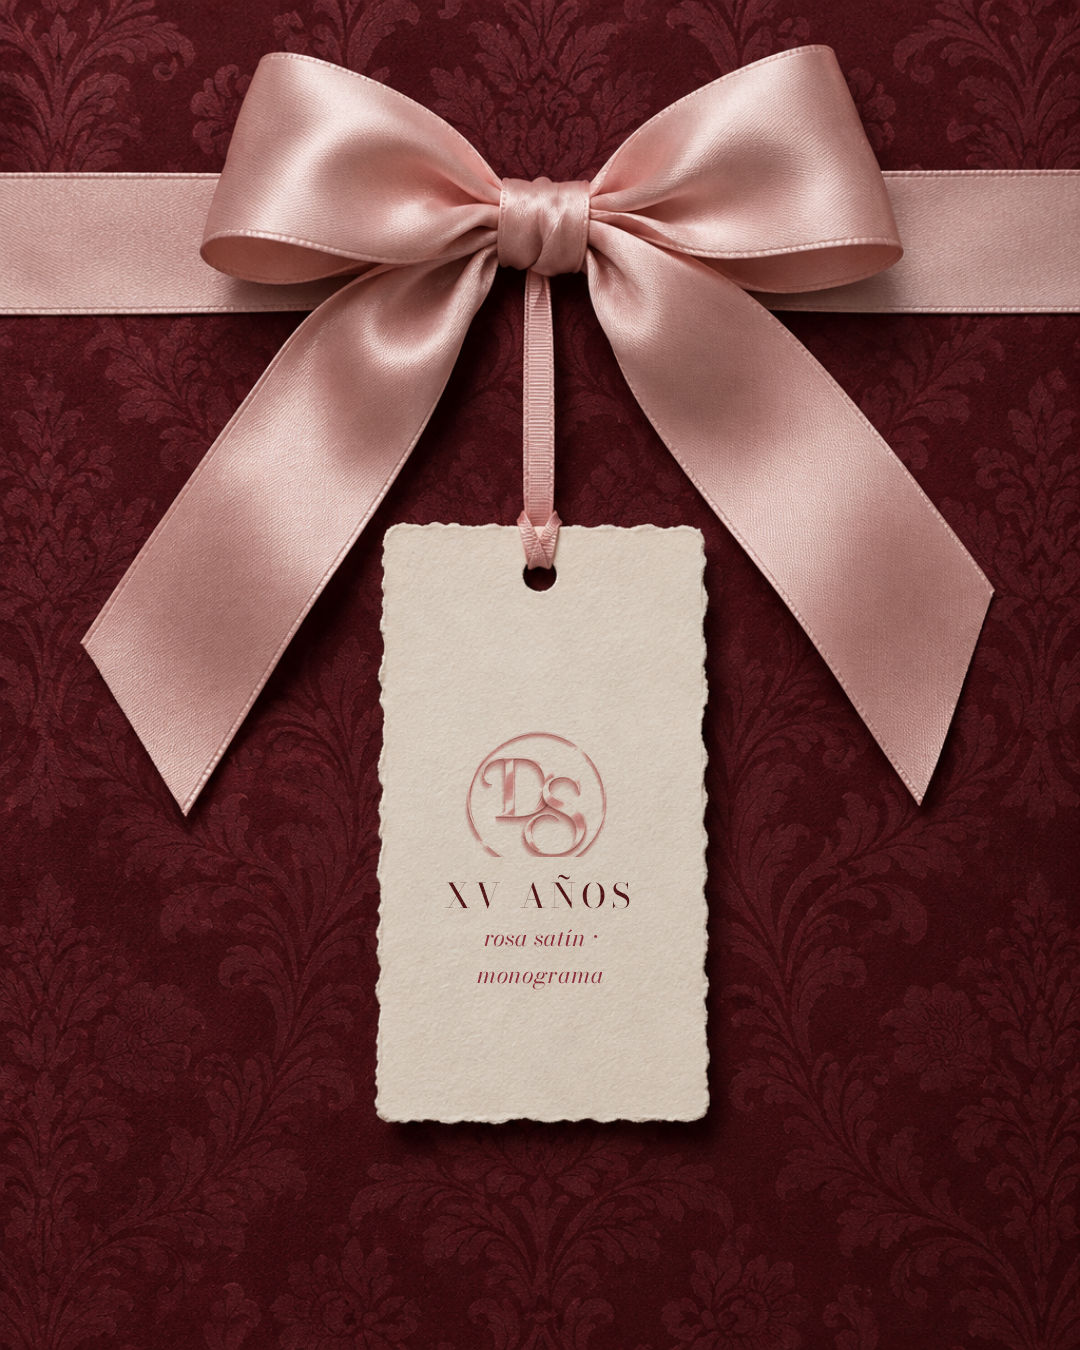
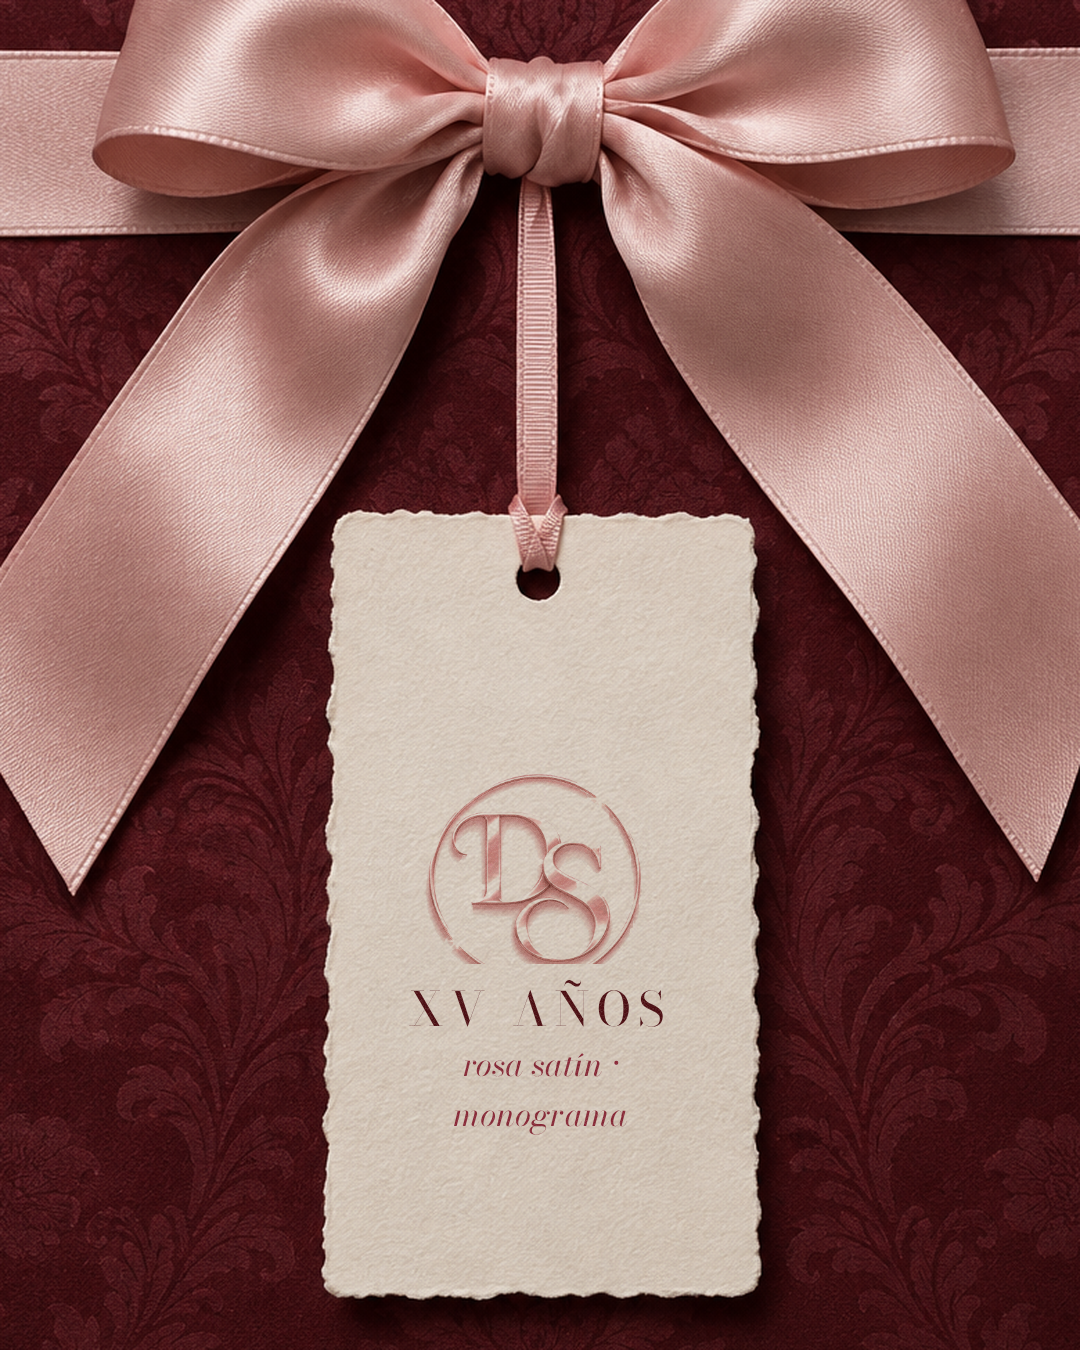
Enlarge tags by zooming photo backgrounds
Claude-Session: https://claude.ai/code/session_01EgrmTqtpGfwNVupVBLTceP

diff --git a/disenos/etiquetas/etiquetas-foto.html b/disenos/etiquetas/etiquetas-foto.html
@@ -5,13 +5,13 @@
 .c{position:absolute;display:flex;flex-direction:column;align-items:center;justify-content:center;text-align:center;color:#6a1220;mix-blend-mode:multiply}
 .c.light{mix-blend-mode:normal}
 .tt{font-family:'Bodoni Moda';letter-spacing:.16em;line-height:1}
-.ts{font-family:'Bodoni Moda';font-style:italic;font-size:24px;margin-top:6px}
+.ts{font-family:'Bodoni Moda';font-style:italic;font-size:33px;margin-top:6px}
 .scr{font-family:'Pinyon Script';line-height:1}
 .ink{position:absolute;inset:0;pointer-events:none;mix-blend-mode:screen;opacity:.22}
 </style></head><body><svg width="0" height="0" style="position:absolute"><filter id="wear"><feTurbulence type="fractalNoise" baseFrequency="1.3" numOctaves="2" seed="4"/><feColorMatrix values="0 0 0 0 1 0 0 0 0 1 0 0 0 0 1 0 0 0 -2.2 1.3"/></filter></svg>
-<div class="s" id="t1" style="background-image:url(fotos/bg1.png)"><div class="c" style="left:392px;top:583px;width:290px;height:544px;padding:0 6%"><img src="../portafolio/el/mono-g.png" style="width:86%"><div class="tt" style="font-size:23px;letter-spacing:.12em;margin-top:26px">INVITACIONES</div><div class="ts">digitales</div><div class="scr" style="font-size:46px;margin-top:14px">Invitto</div><svg class="ink" width="100%" height="100%"><rect width="100%" height="100%" filter="url(#wear)"/></svg></div></div>
-<div class="s" id="t2" style="background-image:url(fotos/bg2.png)"><div class="c" style="left:298px;top:729px;width:500px;height:251px;padding:0 6%"><img src="../portafolio/el/mono-le.png" style="width:40%;filter:contrast(1.1)"><div class="scr" style="color:#d4137a;font-size:56px;margin-top:2px">Mis XV años</div><div class="tt" style="font-size:16px;letter-spacing:.34em;color:#6b3fa0;margin-top:6px">TU NOMBRE AQUÍ</div><svg class="ink" width="100%" height="100%"><rect width="100%" height="100%" filter="url(#wear)"/></svg></div></div>
-<div class="s" id="t3" style="background-image:url(fotos/bg3.png)"><div class="c" style="left:375px;top:642px;width:331px;height:436px;padding:0 6%"><img src="fotos/mono-ds-solo.png" style="width:88%"><div class="tt" style="font-size:34px;margin-top:22px;color:#5a1018">XV AÑOS</div><div class="ts" style="color:#a3314a">rosa satín · monograma</div><svg class="ink" width="100%" height="100%"><rect width="100%" height="100%" filter="url(#wear)"/></svg></div></div>
-<div class="s" id="t4" style="background-image:url(fotos/bg4.png)"><div class="c light" style="left:371px;top:626px;width:351px;height:500px;padding:0 6%"><img src="../portafolio/el/sello-colibri.png" style="width:56%;mix-blend-mode:normal;filter:drop-shadow(0 8px 10px rgba(0,0,0,.45))"><div class="tt" style="font-size:38px;margin-top:26px;color:#f6e9dc">POSADA</div><div class="scr" style="font-size:54px;color:#f3c8c8">Navideña</div><div class="tt" style="font-size:15px;letter-spacing:.32em;color:#f6e9dc;margin-top:8px">PARA TU EMPRESA</div><svg class="ink" width="100%" height="100%"><rect width="100%" height="100%" filter="url(#wear)"/></svg></div></div>
-<div class="s" id="t5" style="background-image:url(fotos/bg5.png)"><div class="c" style="left:389px;top:661px;width:303px;height:367px;padding:0 6%"><div class="scr" style="font-size:72px;color:#7a1424">Invitto</div><div class="tt" style="font-size:34px;line-height:1.15;margin-top:20px">¿HACEMOS<br>LA TUYA?</div><div class="ts" style="font-size:20px;margin-top:12px">XV · bodas<br>cumples · empresas</div><div class="tt" style="font-size:13px;letter-spacing:.2em;white-space:nowrap;margin-top:22px;border-top:1px solid #7a1424;border-bottom:1px solid #7a1424;padding:10px 6px">MÁNDANOS DM →</div><svg class="ink" width="100%" height="100%"><rect width="100%" height="100%" filter="url(#wear)"/></svg></div></div>
+<div class="s" id="t1" style="background-image:url(fotos/zoom1.png)"><div class="c" style="left:350px;top:525px;width:381px;height:714px;padding:0 6%"><img src="../portafolio/el/mono-g.png" style="width:86%"><div class="tt" style="font-size:32px;letter-spacing:.12em;margin-top:26px">INVITACIONES</div><div class="ts">digitales</div><div class="scr" style="font-size:64px;margin-top:14px">Invitto</div><svg class="ink" width="100%" height="100%"><rect width="100%" height="100%" filter="url(#wear)"/></svg></div></div>
+<div class="s" id="t2" style="background-image:url(fotos/zoom2.png)"><div class="c" style="left:212px;top:924px;width:656px;height:330px;padding:0 6%"><img src="../portafolio/el/mono-le.png" style="width:40%;filter:contrast(1.1)"><div class="scr" style="color:#d4137a;font-size:78px;margin-top:2px">Mis XV años</div><div class="tt" style="font-size:22px;letter-spacing:.34em;color:#6b3fa0;margin-top:6px">TU NOMBRE AQUÍ</div><svg class="ink" width="100%" height="100%"><rect width="100%" height="100%" filter="url(#wear)"/></svg></div></div>
+<div class="s" id="t3" style="background-image:url(fotos/zoom3.png)"><div class="c" style="left:323px;top:667px;width:435px;height:572px;padding:0 6%"><img src="fotos/mono-ds-solo.png" style="width:88%"><div class="tt" style="font-size:47px;margin-top:22px;color:#5a1018">XV AÑOS</div><div class="ts" style="color:#a3314a">rosa satín · monograma</div><svg class="ink" width="100%" height="100%"><rect width="100%" height="100%" filter="url(#wear)"/></svg></div></div>
+<div class="s" id="t4" style="background-image:url(fotos/zoom4.png)"><div class="c light" style="left:310px;top:583px;width:461px;height:656px;padding:0 6%"><img src="../portafolio/el/sello-colibri.png" style="width:56%;mix-blend-mode:normal;filter:drop-shadow(0 8px 10px rgba(0,0,0,.45))"><div class="tt" style="font-size:53px;margin-top:26px;color:#f6e9dc">POSADA</div><div class="scr" style="font-size:75px;color:#f3c8c8">Navideña</div><div class="tt" style="font-size:21px;letter-spacing:.32em;color:#f6e9dc;margin-top:8px">PARA TU EMPRESA</div><svg class="ink" width="100%" height="100%"><rect width="100%" height="100%" filter="url(#wear)"/></svg></div></div>
+<div class="s" id="t5" style="background-image:url(fotos/zoom5.png)"><div class="c" style="left:342px;top:757px;width:397px;height:482px;padding:0 6%"><div class="scr" style="font-size:100px;color:#7a1424">Invitto</div><div class="tt" style="font-size:47px;line-height:1.15;margin-top:20px">¿HACEMOS<br>LA TUYA?</div><div class="ts" style="font-size:28px;margin-top:12px">XV · bodas<br>cumples · empresas</div><div class="tt" style="font-size:18px;letter-spacing:.2em;white-space:nowrap;margin-top:22px;border-top:1px solid #7a1424;border-bottom:1px solid #7a1424;padding:10px 6px">MÁNDANOS DM →</div><svg class="ink" width="100%" height="100%"><rect width="100%" height="100%" filter="url(#wear)"/></svg></div></div>
 </body></html>
